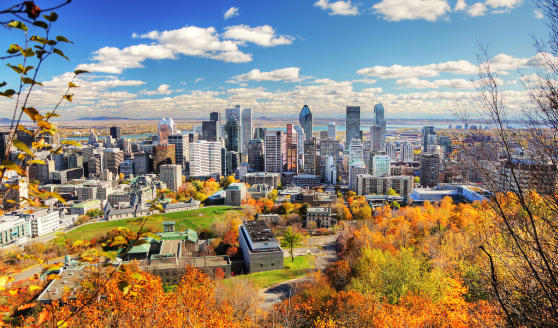
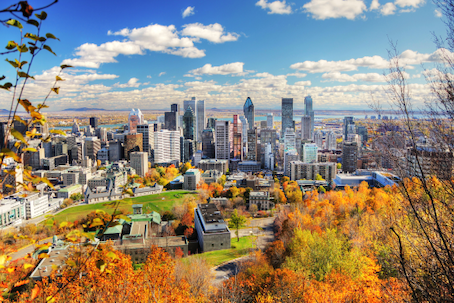
fix : fixed image size issue, and a problem with the image navigation

diff --git a/src/app/app.component.html b/src/app/app.component.html
@@ -210,6 +210,8 @@
          
 
            <!-- Explore section -->
+           <fd-layout-grid>
+            <div fdLayoutGridRow class="remove-padding">
                <div [fdLayoutGridCol]="12" [colMd]="6" [colLg]="6" [colXl]="7" class="remove-padding">
                   <div class="cards__row">
                     <ui5-card>
@@ -217,11 +219,14 @@
                       slot="header" 
                       [title-text]="'Explore Montreal' | ui5I18n">
                       </ui5-card-header>
-                <app-explore-montreal></app-explore-montreal>
-            </ui5-card>
-          </div>
-        </div>
-     </div>
+                      <app-explore-montreal></app-explore-montreal>
+                    </ui5-card>
+                 </div>
+               </div>
+              </div>
+            </fd-layout-grid>
+
+           </div>
 
             </div>
           </fd-layout-grid>

diff --git a/src/app/explore-montreal/explore-montreal.component.ts b/src/app/explore-montreal/explore-montreal.component.ts
@@ -24,7 +24,7 @@ export class ExploreMontrealComponent {
   }
   }
   previousPic(){
-    if(this.currentImageIndex >0){
+    if(this.currentImageIndex > 1){
       this.currentImageIndex--;
     }
     else{
